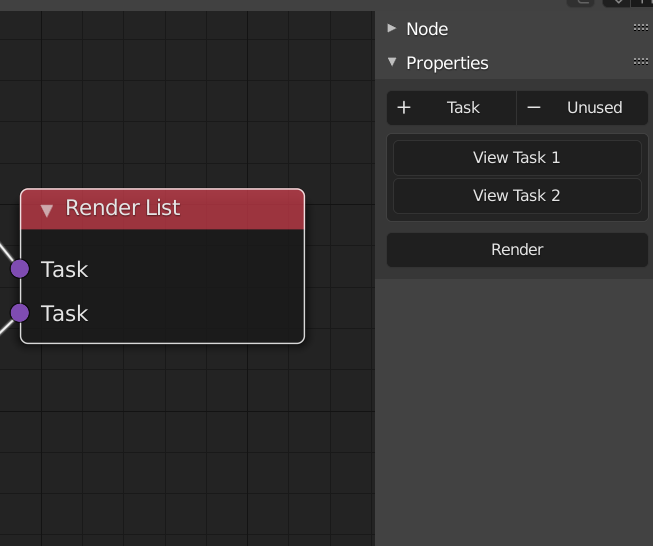
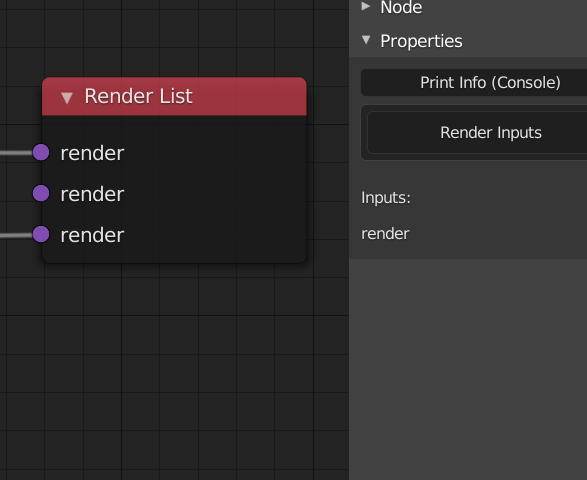
update readme file

diff --git a/nodes/scripts/StmpEmailNode.py b/nodes/scripts/StmpEmailNode.py
@@ -3,8 +3,9 @@ from email.mime.text import MIMEText
 from email.header import Header
 
 import bpy
+from bpy.props import *
 
-class SSM_OT_SendEmail(Operator):
+class SSM_OT_SendEmail(bpy.types.Operator):
     bl_idname = "ssm.send_email"
     bl_label = "Bug Reports to Author"
 

diff --git a/README.md b/README.md
@@ -1,4 +1,8 @@
-# Node-based RenderStack [Blender Addon]
+
+
+# 
+
+Node-based RenderStack [Blender Addon]
 
 ### **Design Target**
 
@@ -6,14 +10,16 @@ Provide users with node-based, flexible rendering output methods
 
 ### Features
 
-> version 0.5 alpha
+> version 0.7 alpha
 >
-> 中文介绍请看视频 https://www.bilibili.com/video/BV1wr4y1c7Tt/
+> Chinese intro video 中文介绍请看视频 https://www.bilibili.com/video/BV1wr4y1c7Tt/
 
 + Camera overide
-+ Render Engine overide （Workbench,Eevee,Cycles）
-+ Output Setting overide  (Frame Range,Resulotion,path（format file name support）,image settings)
++ Render Engine overwrite  （Workbench,Eevee,Cycles）
++ Output Setting overwrite   (Frame Range,Resulotion,path（format file name support）,image settings)
++ Allow script for overwrite 
 + View overide settings
++ Render all task
 
 
 
@@ -51,21 +57,55 @@ Click [here](https://github.com/atticus-lv/RenderStackNode/releases/tag/alpha) t
 
 
 
-### Import Nodes
+### Important Nodes
+
+#### Task Node
 
 + Render List 
 
-	> Provide Viewer operator for input tasks, and render all the input task
+	> Render all the input task,also allow to view all the input task info
 	
 	![image-20201204110924773](./img/image-20201204110924773.png)
 	
+	info format (shift click to get details):
+	
+	```json
+	![屏幕截图 2020-12-04 205828](img/%E5%B1%8F%E5%B9%95%E6%88%AA%E5%9B%BE%202020-12-04%20205828.png)// node name
+	{
+	    "Task.002": [
+	        "Camera.002",
+	        "File Path.001",
+	        "WorkBench Settings"
+	    ],
+	}
+	// nodes details for each task
+	{
+	    "task_name": "Task",
+	    "camera": "Camera",
+	    "use_blend_file_path": true,
+	    "path_format": "$task/$camera",
+	    "path": "C:\\Users\\atticus\\Desktop\\blender\\",
+	    "engine": "BLENDER_WORKBENCH"
+	}
+	```
+	
+	
+	
++ Task List
+
+    > Provide Viewer operator for input tasks
+
+    ![屏幕截图 2020-12-04 205828](img/%E5%B1%8F%E5%B9%95%E6%88%AA%E5%9B%BE%202020-12-04%20205828.png)
+
 + Task
 
     > output task( Link to the render list node)
     >
     > all the overide settings is link to this node 
 
-    ![image-20201204110938958](E:/Typora/upload/image-20201204110938958.png)
+    ![image-20201204110938958](./img/image-20201204110938958.png)
+
+#### Settings Node
 
 + Camera 
 
@@ -75,7 +115,7 @@ Click [here](https://github.com/atticus-lv/RenderStackNode/releases/tag/alpha) t
 	
 + Scripts
 
-    > Excute the python code that type in when rendering/view this task
+    > Excute the python code when rendering/view this task
 
     ![image-20201204111003118](./img/image-20201204111003118.png)
 
@@ -106,10 +146,13 @@ v 0.6
 + [x]  script node for custom render settings overwriting
 + [x]  layout merge nodes(more organize)
 
+v 0.7
++ [x]  render list merge node (or someting else for render all list)
++ [ ]  stmp email node
+
 v.1.0
 
 + [ ]  viewlayers and passes(output)
-+ [ ]  render list merge node (or someting else for render all list)
-+ [ ]  task marker (won't need to unlink task to no render )
++ [ ]  task marker (won't need to unlink task to no render,maybe)
 + [ ]  scene overwriting (maybe)
 
